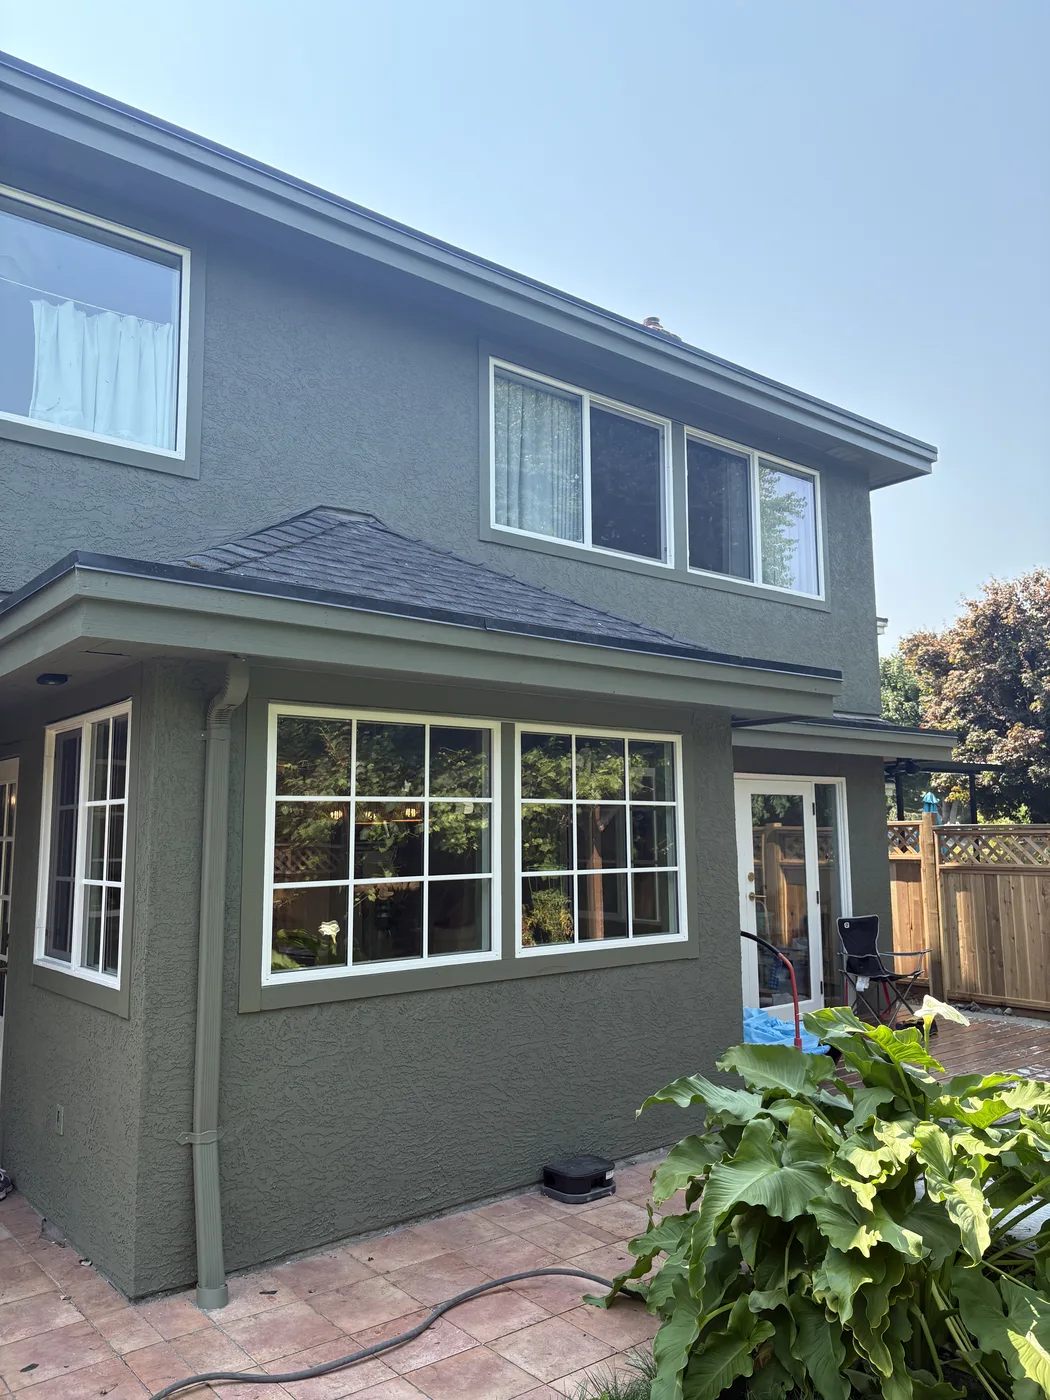
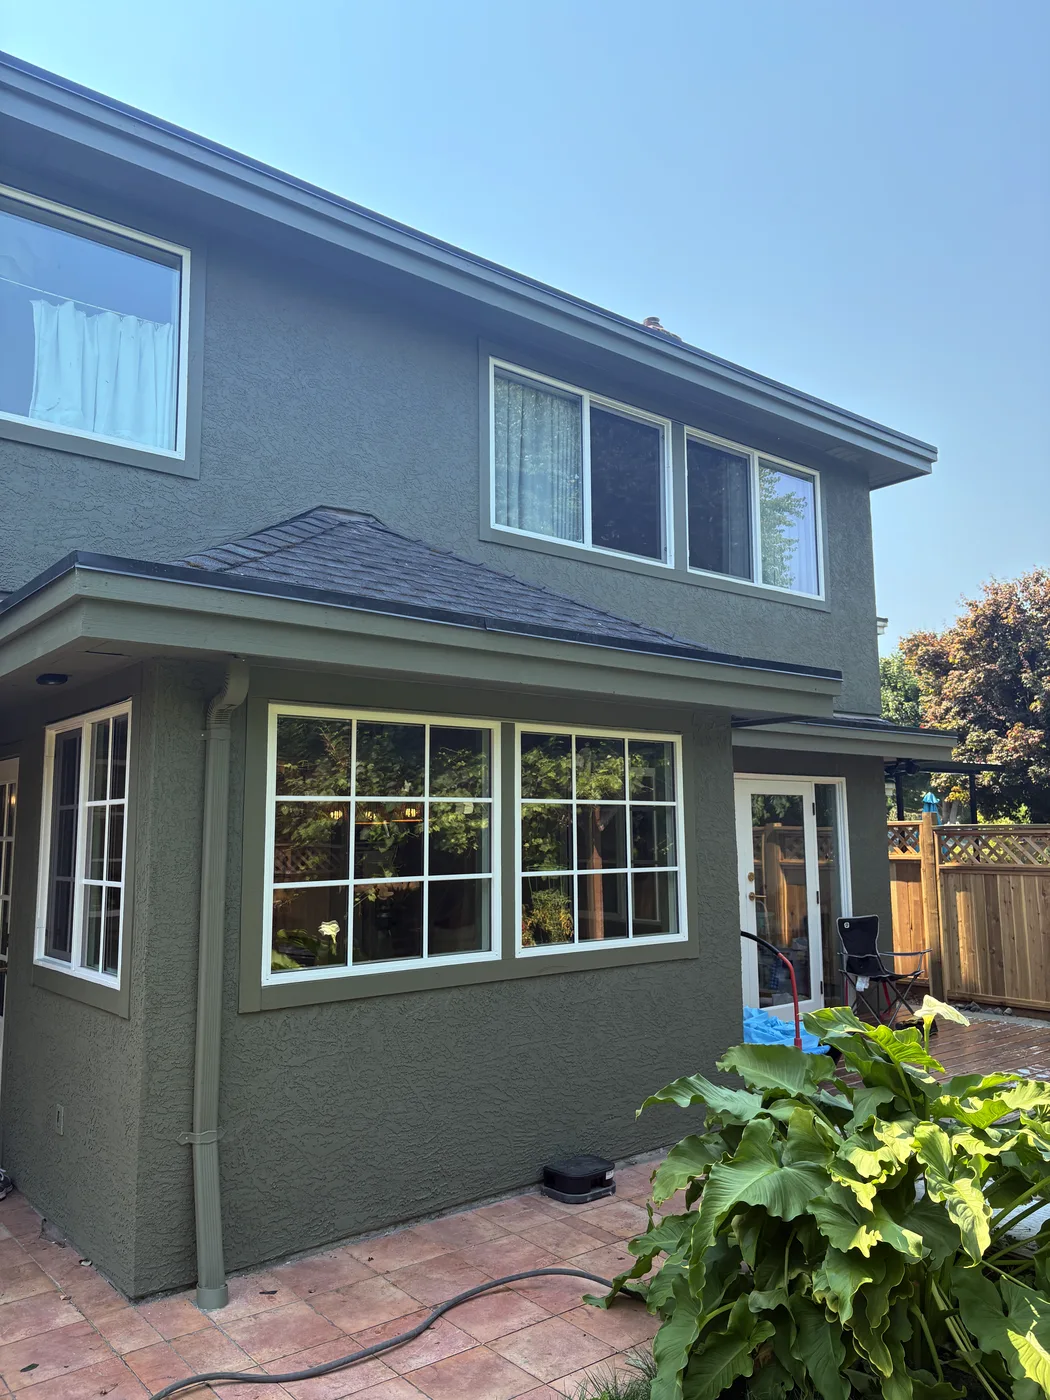
Item-by-item feedback round: doors re-cropped right, rescan catches
Aunt doors cropped to the card's true rendered aspect (before intact,
after loses only stone above; verified on the rendered card); Geoff
copy-photo mismatch fixed (windows were always white); Geoff after
exposure-corrected; Kirk paint-can detail cut; Sheila "faded" added for
photo coherence; smaller-projects lede no longer claims warranty
(contradicted Monika) or prep; second in-person-estimate claim removed.

diff --git a/our-work.html b/our-work.html
@@ -602,7 +602,7 @@ a.rating-link:hover{text-decoration:underline;text-decoration-color:var(--gold);
         <div class="card-body">
           <span class="card-tag">Richmond</span>
           <h3>Full Exterior Repaint</h3>
-          <p>Tan stucco repainted in sage green with the trim and window frames in white.</p>
+          <p>Tan stucco repainted in sage green with white trim.</p>
           <div class="stat-line"><span>$11,000&ndash;$13,000</span></div></div>
       </div>
 
@@ -644,7 +644,7 @@ a.rating-link:hover{text-decoration:underline;text-decoration-color:var(--gold);
         <div class="card-body">
           <span class="card-tag">Tsawwassen &middot; Delta</span>
           <h3>Full Exterior Repaint</h3>
-          <p>Colour-matched repaint of the stucco, wood siding and trim.</p>
+          <p>Colour-matched repaint of the faded stucco, wood siding and trim.</p>
           <div class="stat-line"><span>$10,000&ndash;$12,000</span></div></div>
       </div>
 
@@ -672,7 +672,7 @@ a.rating-link:hover{text-decoration:underline;text-decoration-color:var(--gold);
         <div class="card-body">
           <span class="card-tag">Richmond</span>
           <h3>Exterior Solid-Stain Repaint</h3>
-          <p>Colour-matched solid stain on the wood siding, with the fascia, frames and chimney repainted.</p>
+          <p>Colour-matched solid stain on the wood siding, with the fascia and chimney repainted.</p>
           <div class="stat-line"><span>$7,500&ndash;$9,500</span></div></div>
       </div>
 
@@ -719,7 +719,7 @@ a.rating-link:hover{text-decoration:underline;text-decoration-color:var(--gold);
   <div class="wrap">
     <div class="sec-eyebrow">Smaller Projects</div>
     <h2>Smaller projects, same standard</h2>
-    <p class="lede">Doors, trim, fascia and refresh work get the same prep, the same written quote and the same warranty as a full repaint.</p>
+    <p class="lede">Doors, trim and fascia work gets the same care and the same fixed written price as a full repaint.</p>
 
     <div class="grid3">
 <div class="card">
@@ -852,7 +852,7 @@ a.rating-link:hover{text-decoration:underline;text-decoration-color:var(--gold);
   <div class="split-cta">
     <div class="eyebrow">Free on-site estimate</div>
     <h2>Find Out What Your Home Would Cost</h2>
-    <p>Every number on this page came from an in-person estimate. Book yours and you'll have a detailed written quote, with photos, within 24 hours. Call <a class="inline" href="tel:18669927238"><span class="ccp-phone-swap">1-866-99-CRAFT</span></a> or <a class="inline dj-link" href="https://colourcraftpaintingrichmonddelta.dripjobs.com/?f=form-02776504">schedule online</a>.</p>
+    <p>Every number on this page is from a real completed project. Book your free estimate and you'll have a fixed written quote, with photos, within 24 hours. Call <a class="inline" href="tel:18669927238"><span class="ccp-phone-swap">1-866-99-CRAFT</span></a> or <a class="inline dj-link" href="https://colourcraftpaintingrichmonddelta.dripjobs.com/?f=form-02776504">schedule online</a>.</p>
     <div><a class="btn big dj-link" href="https://colourcraftpaintingrichmonddelta.dripjobs.com/?f=form-02776504">Get Started Today</a></div>
   </div>
   <div class="split-stats">

diff --git a/src/pages/our-work.html b/src/pages/our-work.html
@@ -106,7 +106,7 @@
         <div class="card-body">
           <span class="card-tag">Richmond</span>
           <h3>Full Exterior Repaint</h3>
-          <p>Tan stucco repainted in sage green with the trim and window frames in white.</p>
+          <p>Tan stucco repainted in sage green with white trim.</p>
           <div class="stat-line"><span>$11,000&ndash;$13,000</span></div></div>
       </div>
 
@@ -148,7 +148,7 @@
         <div class="card-body">
           <span class="card-tag">Tsawwassen &middot; Delta</span>
           <h3>Full Exterior Repaint</h3>
-          <p>Colour-matched repaint of the stucco, wood siding and trim.</p>
+          <p>Colour-matched repaint of the faded stucco, wood siding and trim.</p>
           <div class="stat-line"><span>$10,000&ndash;$12,000</span></div></div>
       </div>
 
@@ -176,7 +176,7 @@
         <div class="card-body">
           <span class="card-tag">Richmond</span>
           <h3>Exterior Solid-Stain Repaint</h3>
-          <p>Colour-matched solid stain on the wood siding, with the fascia, frames and chimney repainted.</p>
+          <p>Colour-matched solid stain on the wood siding, with the fascia and chimney repainted.</p>
           <div class="stat-line"><span>$7,500&ndash;$9,500</span></div></div>
       </div>
 
@@ -223,7 +223,7 @@
   <div class="wrap">
     <div class="sec-eyebrow">Smaller Projects</div>
     <h2>Smaller projects, same standard</h2>
-    <p class="lede">Doors, trim, fascia and refresh work get the same prep, the same written quote and the same warranty as a full repaint.</p>
+    <p class="lede">Doors, trim and fascia work gets the same care and the same fixed written price as a full repaint.</p>
 
     <div class="grid3">
 <div class="card">
@@ -356,7 +356,7 @@
   <div class="split-cta">
     <div class="eyebrow">Free on-site estimate</div>
     <h2>Find Out What Your Home Would Cost</h2>
-    <p>Every number on this page came from an in-person estimate. Book yours and you'll have a detailed written quote, with photos, within 24 hours. Call <a class="inline" href="tel:18669927238"><span class="ccp-phone-swap">1-866-99-CRAFT</span></a> or <a class="inline dj-link" href="https://colourcraftpaintingrichmonddelta.dripjobs.com/?f=form-02776504">schedule online</a>.</p>
+    <p>Every number on this page is from a real completed project. Book your free estimate and you'll have a fixed written quote, with photos, within 24 hours. Call <a class="inline" href="tel:18669927238"><span class="ccp-phone-swap">1-866-99-CRAFT</span></a> or <a class="inline dj-link" href="https://colourcraftpaintingrichmonddelta.dripjobs.com/?f=form-02776504">schedule online</a>.</p>
     <div><a class="btn big dj-link" href="https://colourcraftpaintingrichmonddelta.dripjobs.com/?f=form-02776504">Get Started Today</a></div>
   </div>
   <div class="split-stats">
